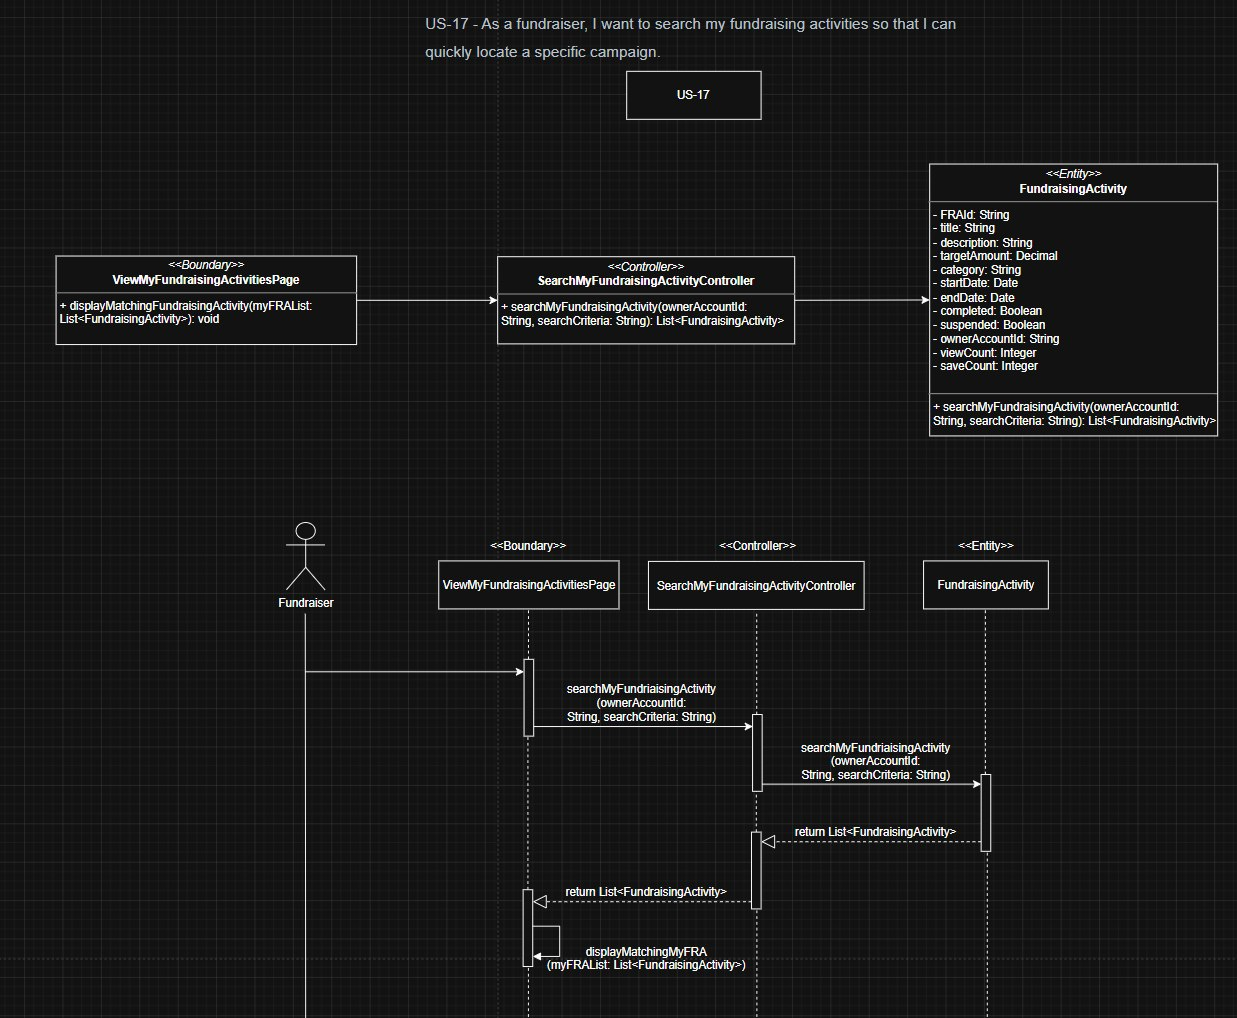
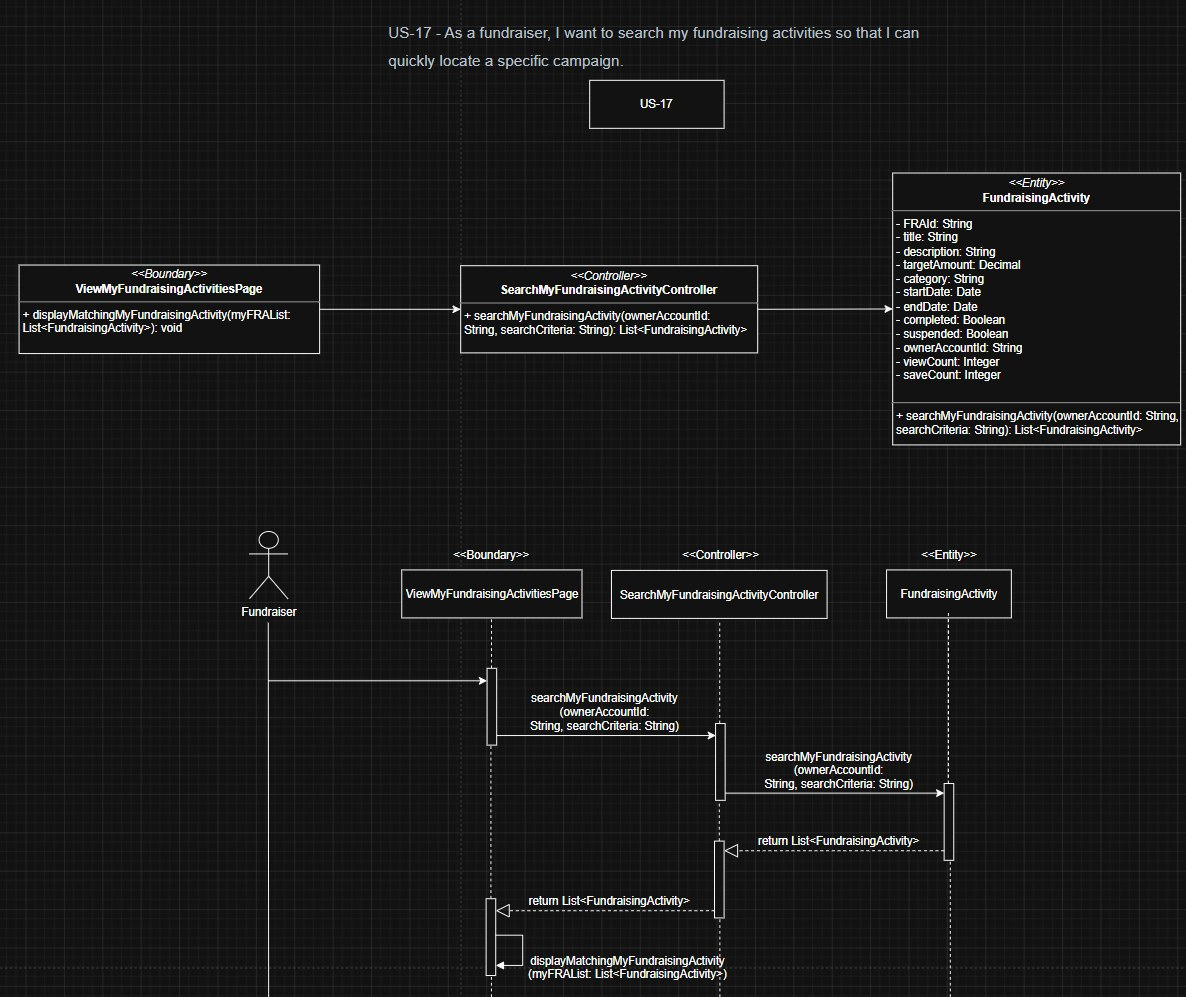
diagrams+code: US-17 boundary display method renamed to displayMatchingMyFundraisingActivity
Re-exported US-17 diagram (2026-05-17) aligns the boundary method name
with the owner-scoped naming convention now used across Sprint 3 — class
diagram changes from displayMatchingFundraisingActivity to
displayMatchingMyFundraisingActivity. Entity + controller signatures
already match the new diagram (full form, unchanged).

Boundary method display_matching_my_fra renamed to
display_matching_my_fundraising_activity; docstring trimmed (removed the
stale US-30 dual-boundary note now that US-30 has its own page class in
the new diagrams). 373 tests still pass.

diff --git a/boundary/view_my_fundraising_activities_page.py b/boundary/view_my_fundraising_activities_page.py
@@ -1,12 +1,7 @@
-"""ViewMyFundraisingActivitiesPage <<Boundary>> — Sprint 3 US-17 (+ US-30).
+"""ViewMyFundraisingActivitiesPage <<Boundary>> — Sprint 3 US-17.
 
 Diagram contract (US-17.jpg):
-    + displayMatchingFundraisingActivity(myFRAList: List<FundraisingActivity>): void
-
-The same boundary class is named on the US-30 diagram for "search my
-completed activities" — implementation routes by an in-page selector
-(all / completed-only). Sprint 3 US-30 is implemented in a separate
-controller; this page only handles US-17 directly.
+    + displayMatchingMyFundraisingActivity(myFRAList: List<FundraisingActivity>): void
 """
 from __future__ import annotations
 
@@ -48,14 +43,14 @@ class ViewMyFundraisingActivitiesPage:
                 search_criteria=criteria.strip(),
             )
         )
-        self.display_matching_my_fra(results)
+        self.display_matching_my_fundraising_activity(results)
 
     @staticmethod
     def validate_criteria(criteria: str) -> bool:
         return bool(criteria.strip())
 
     @staticmethod
-    def display_matching_my_fra(activities) -> None:
+    def display_matching_my_fundraising_activity(activities) -> None:
         if not activities:
             st.info("No activities of yours match.")
             return

diff --git a/docs/implementation.md b/docs/implementation.md
@@ -789,7 +789,7 @@ Diagrams: [diagrams/sprint-3_diagrams/](../diagrams/sprint-3_diagrams/). Stories
 
 | Layer | Class | Method |
 |---|---|---|
-| Boundary | `ViewMyFundraisingActivitiesPage` | `displayMatchingFundraisingActivity(myFRAList: List<FundraisingActivity>): void` |
+| Boundary | `ViewMyFundraisingActivitiesPage` | `displayMatchingMyFundraisingActivity(myFRAList: List<FundraisingActivity>): void` |
 | Controller | `SearchMyFundraisingActivityController` | `searchMyFundraisingActivity(ownerAccountId: String, searchCriteria: String): List<FundraisingActivity>` |
 | Entity | `FundraisingActivity (attrs as US-14)` | `searchMyFundraisingActivity(ownerAccountId: String, searchCriteria: String): List<FundraisingActivity>` |
 